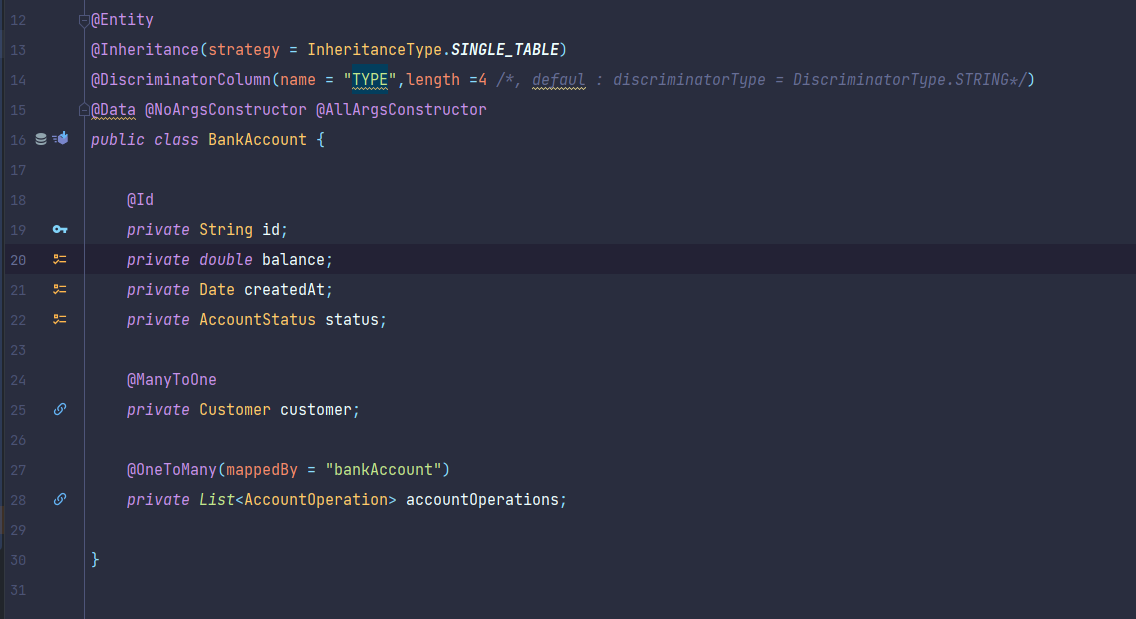
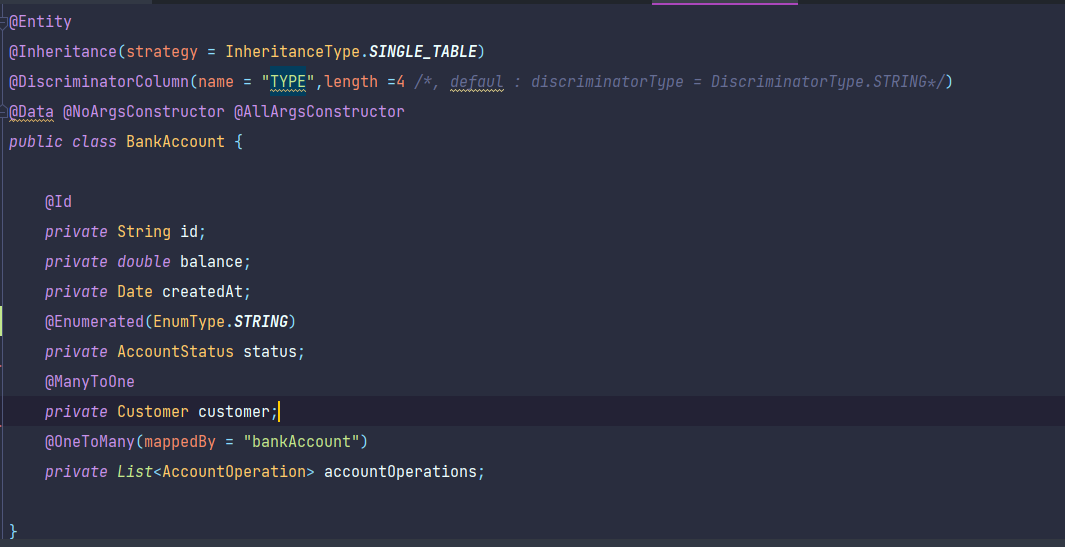
creation of repositories

diff --git a/Backend/src/main/java/com/digitalbancking/digitalbancking/DigitalBanckingApplication.java b/Backend/src/main/java/com/digitalbancking/digitalbancking/DigitalBanckingApplication.java
@@ -1,7 +1,22 @@
 package com.digitalbancking.digitalbancking;
 
+import com.digitalbancking.digitalbancking.entities.AccountOperation;
+import com.digitalbancking.digitalbancking.entities.CurrentAccount;
+import com.digitalbancking.digitalbancking.entities.Customer;
+import com.digitalbancking.digitalbancking.entities.SavingAccount;
+import com.digitalbancking.digitalbancking.enums.AccountStatus;
+import com.digitalbancking.digitalbancking.enums.OperationType;
+import com.digitalbancking.digitalbancking.repositories.AccountOperationRepository;
+import com.digitalbancking.digitalbancking.repositories.BankAccountRepository;
+import com.digitalbancking.digitalbancking.repositories.CustomerRepository;
+import org.springframework.boot.CommandLineRunner;
 import org.springframework.boot.SpringApplication;
 import org.springframework.boot.autoconfigure.SpringBootApplication;
+import org.springframework.context.annotation.Bean;
+
+import java.util.Date;
+import java.util.UUID;
+import java.util.stream.Stream;
 
 @SpringBootApplication
 public class DigitalBanckingApplication {
@@ -10,4 +25,56 @@ public class DigitalBanckingApplication {
 		SpringApplication.run(DigitalBanckingApplication.class, args);
 	}
 
+
+	@Bean
+	CommandLineRunner commandLineRunner(CustomerRepository customerRepository,
+										BankAccountRepository bankAccountRepository,
+										AccountOperationRepository accountOperationRepository){
+		return args -> {
+
+			Stream.of("hassan","mahdi","e").forEach(name ->{
+				Customer customer=new Customer();
+				customer.setId(UUID.randomUUID().toString());
+				customer.setName(name);
+				customer.setEmail(name+"@gmaim.com");
+				customerRepository.save(customer);
+			});
+
+
+			customerRepository.findAll().forEach(customer -> {
+				CurrentAccount currentAccount=new CurrentAccount();
+				currentAccount.setId(UUID.randomUUID().toString());
+				currentAccount.setBalance(Math.random()*9000);
+				currentAccount.setCreatedAt(new Date());
+				currentAccount.setStatus(AccountStatus.CREATED);
+				currentAccount.setCustomer(customer);
+				currentAccount.setOverDraft(9000);
+				bankAccountRepository.save(currentAccount);
+
+				SavingAccount savingAccount=new SavingAccount();
+				savingAccount.setId(UUID.randomUUID().toString());
+				savingAccount.setBalance(Math.random()*9000);
+				savingAccount.setCreatedAt(new Date());
+				savingAccount.setStatus(AccountStatus.CREATED);
+				savingAccount.setCustomer(customer);
+				savingAccount.setInterestRate(5.5);
+				bankAccountRepository.save(savingAccount);
+			});
+
+			bankAccountRepository.findAll().forEach(bankAccount -> {
+
+				for (int i = 0; i <10 ; i++) {
+					AccountOperation accountOperation=new AccountOperation();
+					accountOperation.setOperationDate(new Date());
+					accountOperation.setAmount(Math.random()*9000);
+					accountOperation.setType(Math.random()>0.5 ? OperationType.DEBIT: OperationType.CREDIT);
+					accountOperation.setBankAccount(bankAccount);
+
+					accountOperationRepository.save(accountOperation);
+				}
+			});
+
+
+		};
+	}
 }

diff --git a/Backend/src/main/java/com/digitalbancking/digitalbancking/repositories/AccountOperationRepository.java b/Backend/src/main/java/com/digitalbancking/digitalbancking/repositories/AccountOperationRepository.java
@@ -1,0 +1,8 @@
+package com.digitalbancking.digitalbancking.repositories;
+
+import com.digitalbancking.digitalbancking.entities.AccountOperation;
+import com.digitalbancking.digitalbancking.entities.Customer;
+import org.springframework.data.jpa.repository.JpaRepository;
+
+public interface AccountOperationRepository extends JpaRepository<AccountOperation,Long> {
+}

diff --git a/Backend/src/main/java/com/digitalbancking/digitalbancking/repositories/BankAccountRepository.java b/Backend/src/main/java/com/digitalbancking/digitalbancking/repositories/BankAccountRepository.java
@@ -1,0 +1,8 @@
+package com.digitalbancking.digitalbancking.repositories;
+
+import com.digitalbancking.digitalbancking.entities.BankAccount;
+import com.digitalbancking.digitalbancking.entities.Customer;
+import org.springframework.data.jpa.repository.JpaRepository;
+
+public interface BankAccountRepository extends JpaRepository<BankAccount,String> {
+}

diff --git a/Backend/src/main/java/com/digitalbancking/digitalbancking/entities/BankAccount.java b/Backend/src/main/java/com/digitalbancking/digitalbancking/entities/BankAccount.java
@@ -19,11 +19,10 @@ public class BankAccount {
     private String id;
     private double balance;
     private Date createdAt;
+    @Enumerated(EnumType.STRING)
     private AccountStatus status;
-
     @ManyToOne
     private Customer customer;
-
     @OneToMany(mappedBy = "bankAccount")
     private List<AccountOperation> accountOperations;
 

diff --git a/Backend/src/main/java/com/digitalbancking/digitalbancking/repositories/CustomerRepository.java b/Backend/src/main/java/com/digitalbancking/digitalbancking/repositories/CustomerRepository.java
@@ -1,0 +1,7 @@
+package com.digitalbancking.digitalbancking.repositories;
+
+import com.digitalbancking.digitalbancking.entities.Customer;
+import org.springframework.data.jpa.repository.JpaRepository;
+
+public interface CustomerRepository extends JpaRepository<Customer,String> {
+}

diff --git a/Backend/src/main/java/com/digitalbancking/digitalbancking/entities/AccountOperation.java b/Backend/src/main/java/com/digitalbancking/digitalbancking/entities/AccountOperation.java
@@ -16,6 +16,8 @@ public class AccountOperation {
     private Long id;
     private Date operationDate;
     private  double amount;
+
+    @Enumerated(EnumType.STRING)
     private OperationType type;
 
     @ManyToOne()

diff --git a/Backend/readme.md b/Backend/readme.md
@@ -6,6 +6,10 @@
 
 ### création des entities :
 package :(`src/main/java/com/digitalbancking/digitalbancking/entities`)
+    
+    info :
+    - dans l'héritage on utilise la stratégie : Single table
+
 1. BankAccount : 
 
 ![img1.png](images/img_1.png)
@@ -28,6 +32,7 @@ package :(`src/main/java/com/digitalbancking/digitalbancking/entities`)
 ![img5.png](images/img_5.png)
 
 ### création des enums :
+package :(`src/main/java/com/digitalbancking/digitalbancking/enums`)
 
 1. AccountStatus :
 
@@ -39,4 +44,39 @@ package :(`src/main/java/com/digitalbancking/digitalbancking/entities`)
 ![img7.png](images/img_7.png)
 
 
+
+### création des repositories :
+package :(`src/main/java/com/digitalbancking/digitalbancking/repositories`)
+
+1. AccountOperationRepository :
+
+![img8.png](images/img_8.png)
+
+
+2. BankAccountRepository :
+
+![img9.png](images/img_9.png)
+
+
+3. CustomerRepository :
+
+![img10.png](images/img_10.png)
+
+
+#### tester les repositories:
+- modifier le fichier : application.properties :
+![img11.png](images/img_11.png)
+
+- ajouter les données : (`src/main/java/com/digitalbancking/digitalbancking/DigitalBanckingApplication.java`)
+  - customers:
+    ![img12.png](images/img_12.png)
+    ![img15.png](images/img_15.png)
+
+  - accounts :
+    ![img13.png](images/img_13.png)
+    ![img16.png](images/img_16.png)
+
+  - operations :
+    ![img14.png](images/img_14.png)
+    ![img17.png](images/img_17.png)
 
